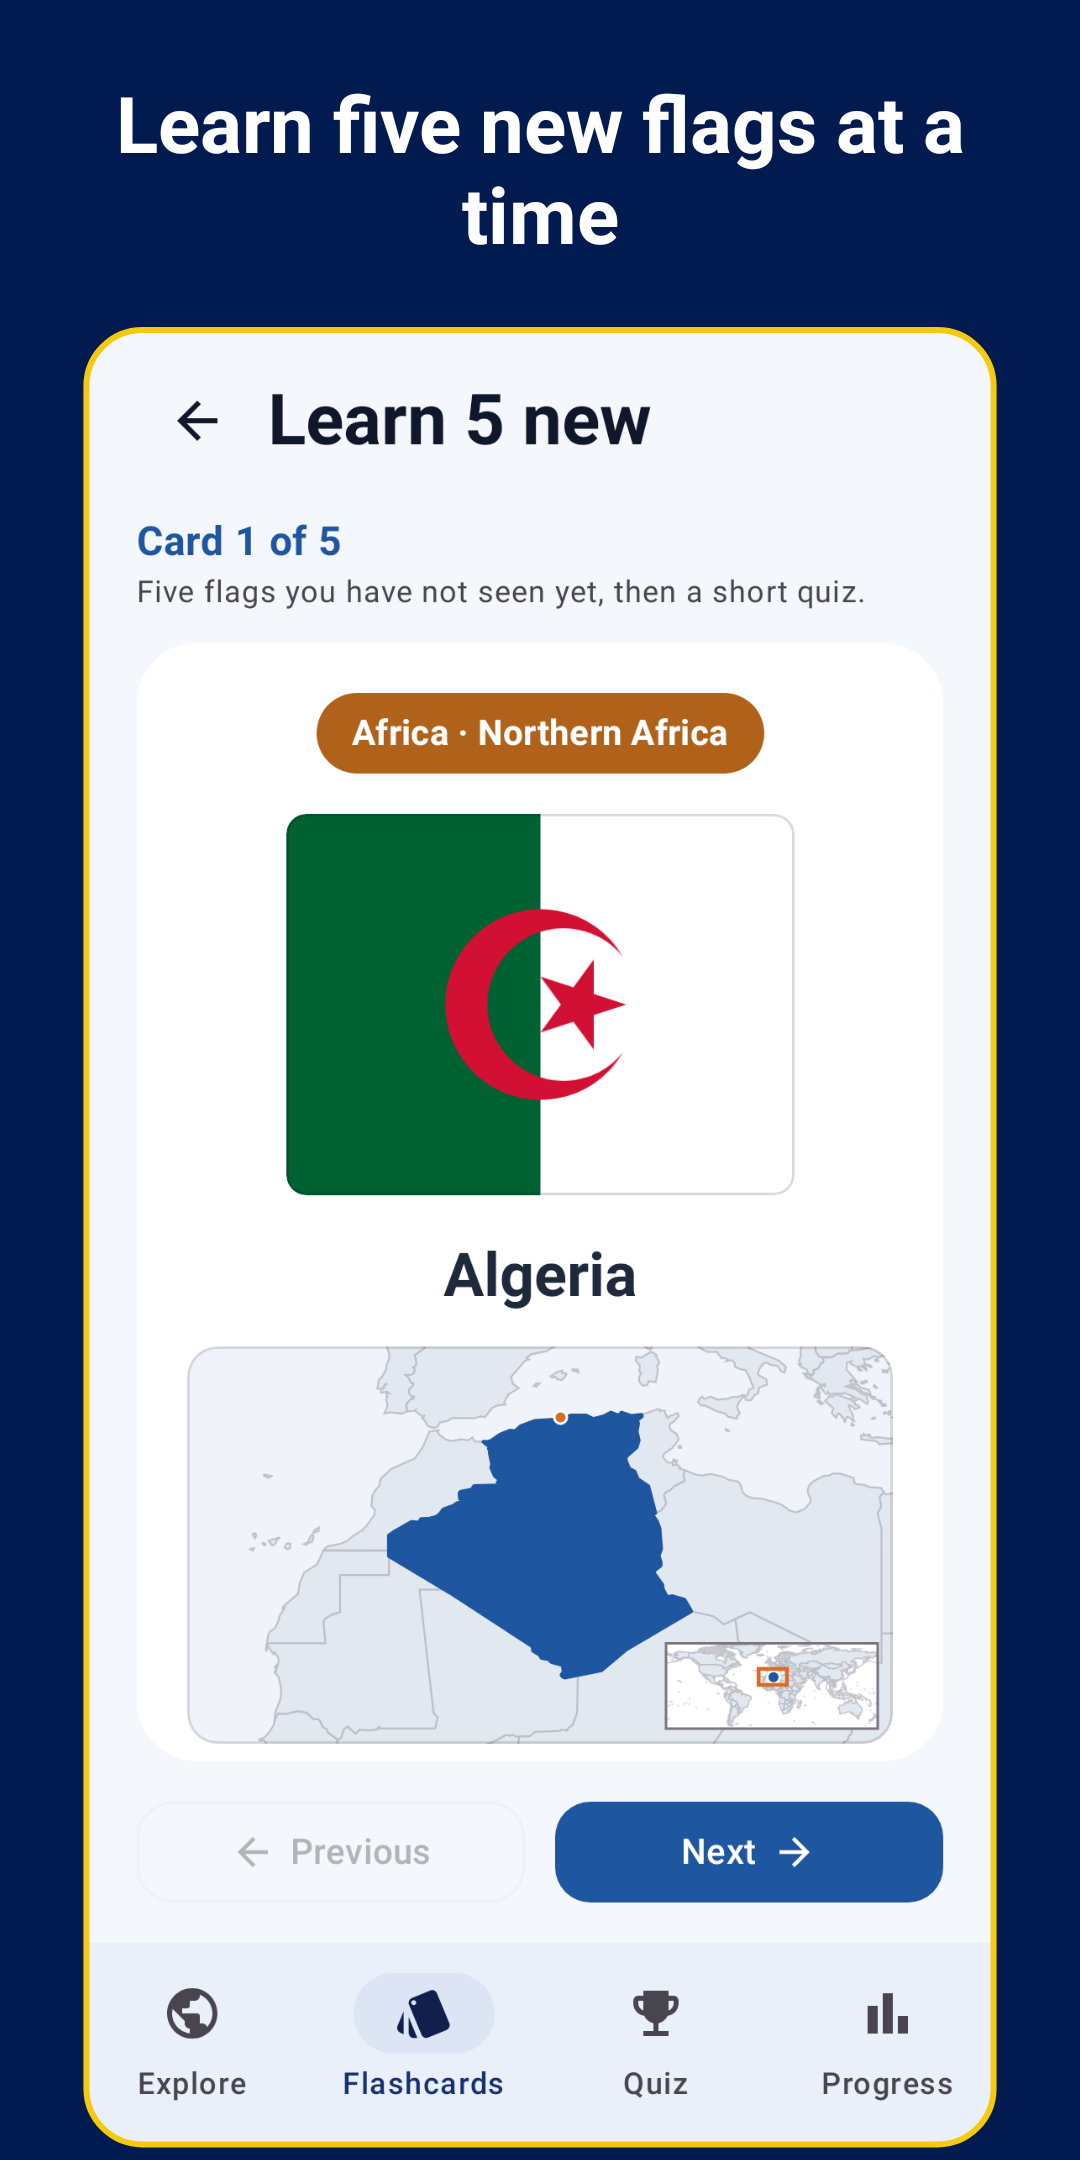
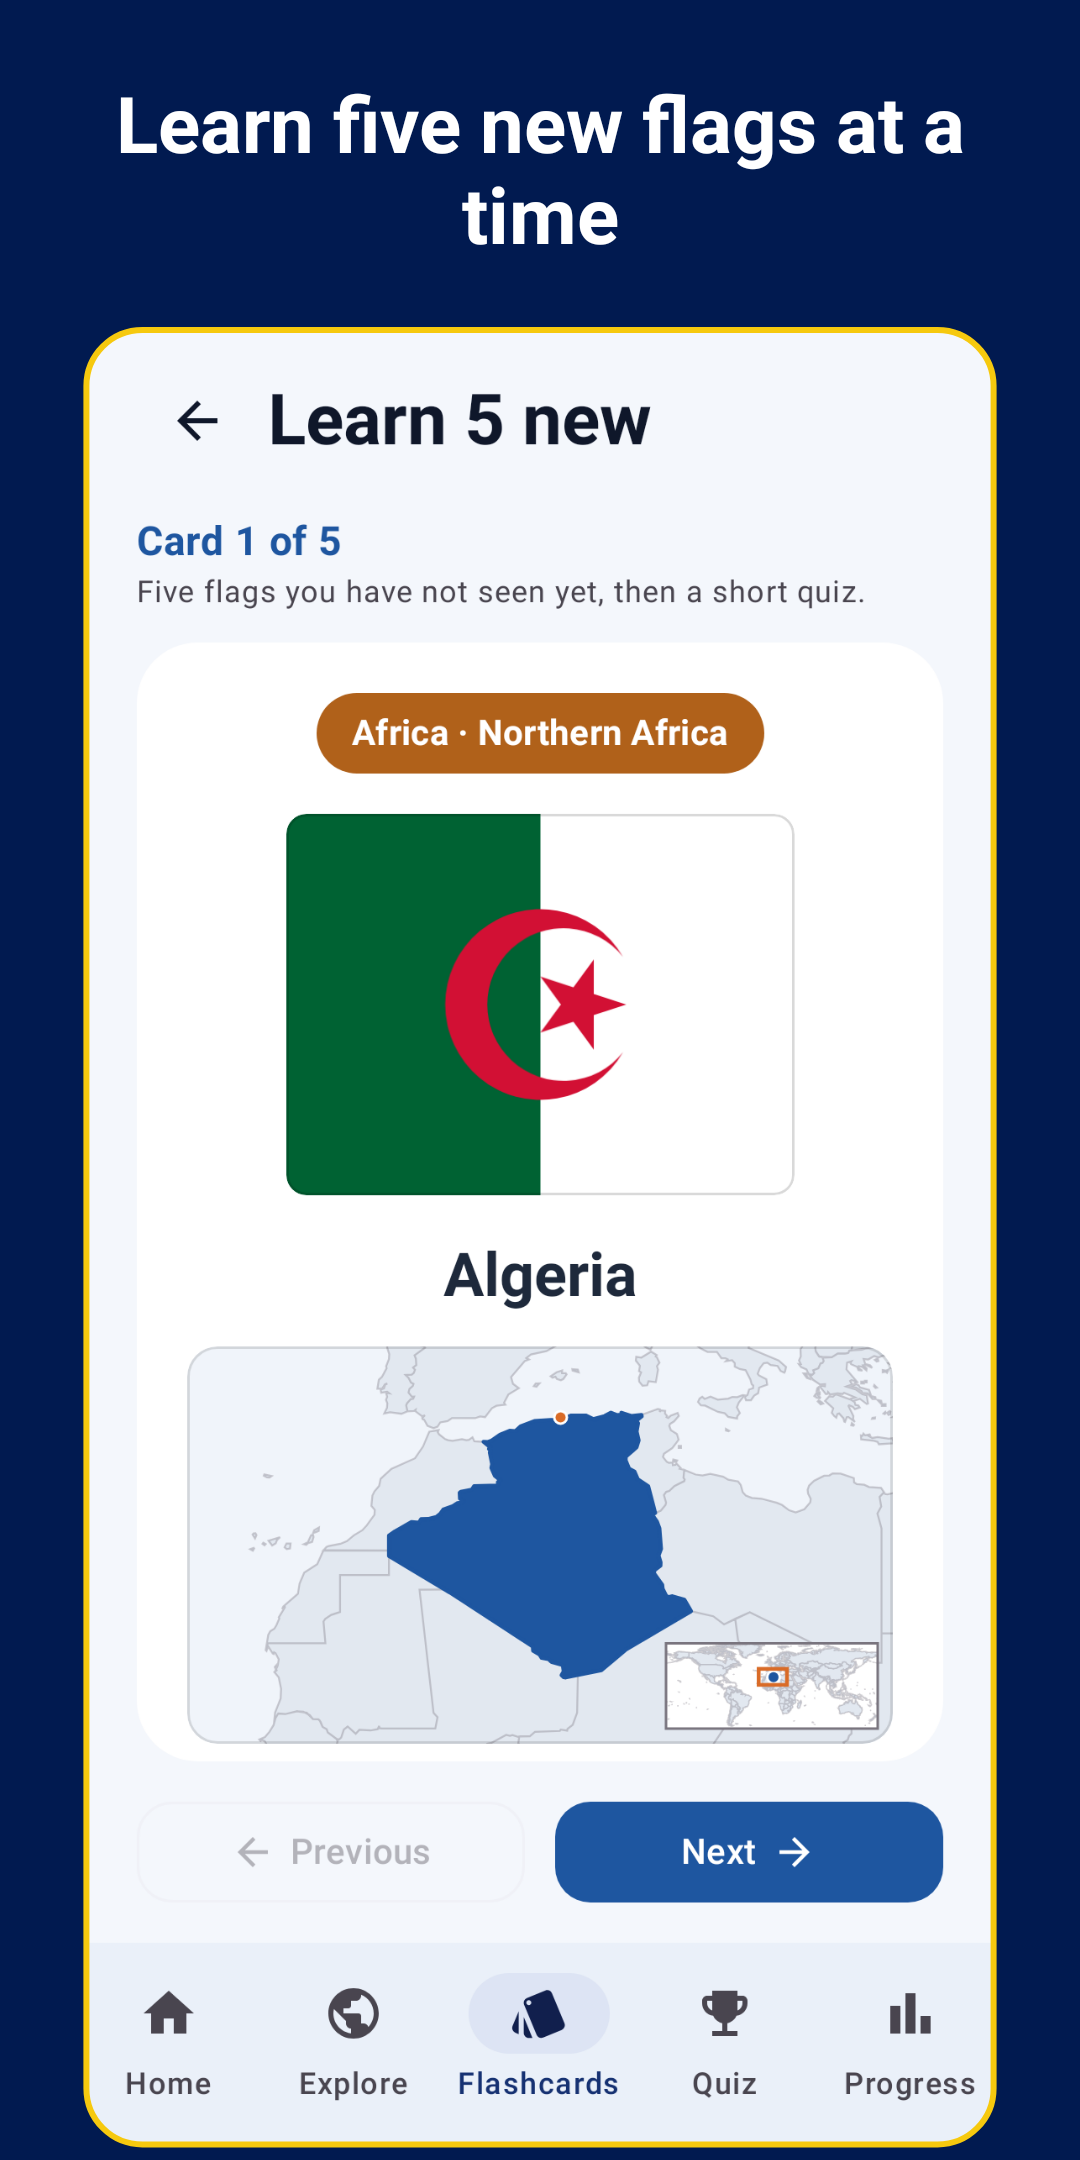
Retake the store screenshots on the new Home screen; tablet shot shows Home
Claude-Session: https://claude.ai/code/session_01FsSjTKJ7VsyPwGGheMQEqx

Changed region(s): [[0.275, 0.8995, 0.7028, 0.9926], [0.7639, 0.8995, 0.8861, 0.9926], [0.1222, 0.8995, 0.2139, 0.9926]]

diff --git a/app/src/test/java/com/example/ScreenshotsTest.kt b/app/src/test/java/com/example/ScreenshotsTest.kt
@@ -219,14 +219,18 @@ class ScreenshotsTest {
         rule.waitForIdle()
     }
 
-    /** Two of the screenshots on a 1600x2560 tablet: the rail on the start edge, the columns at their reading width. */
+    /** Two of the screenshots on a 1600x2560 tablet, Home with progress on it and Progress: the rail on the start edge, the
+     * columns at their reading width. */
     @Test
     @Config(qualifiers = "w800dp-h1280dp-xhdpi")
     fun storeTablet() {
         rule.waitForIdle()
-        saveStore("tablet_01_explore", "Every flag, capital and map to explore")
         val viewModel = ViewModelProvider(rule.activity)[CountryViewModel::class.java]
         seedProgress(viewModel)
+        rule.openTab("home")
+        rule.awaitDelivered { viewModel.streak.value.current == 3 }
+        rule.waitForIdle()
+        saveStore("tablet_01_home", "Play, learn and keep your streak")
         saveProgress("tablet_06_progress", "Spaced reviews, your streak, your progress", viewModel)
     }
 

diff --git a/store/listing.md b/store/listing.md
@@ -42,6 +42,6 @@ Works offline, in light and dark, with TalkBack, on phones and tablets.
 
 **Data safety:** No data collected. No data shared. Data is encrypted in transit: not applicable (no network). Users can request data deletion: data is deleted on uninstall or with Reset progress.
 
-**Screenshots:** `store/screenshots/`: phone 1080×2160, each with a caption on navy above the screen, the quiz first: `01_quiz_flag`, `02_quiz_locate`, `03_quiz_answered`, `04_learn_card`, `05_flashcard_back`, `06_progress`, `07_sheet_map`, and `dark_01_quiz_flag` in dark, eight in all, the most Play takes for one kind of device; tablet 1600×2560 (`tablet_01_explore`, `tablet_06_progress`). All are 24-bit PNGs, with no alpha channel. The `storePhone()`, `storePhoneDark()` and `storeTablet()` tests of `ScreenshotsTest` write them to `app/build/screenshots/store/`; that folder is copied into `store/screenshots/` after the tests have run. The listing text does not name the screen the app opens on, so a new launch screen needs no text change; retake the screenshots after one lands.
+**Screenshots:** `store/screenshots/`: phone 1080×2160, each with a caption on navy above the screen, the quiz first: `01_quiz_flag`, `02_quiz_locate`, `03_quiz_answered`, `04_learn_card`, `05_flashcard_back`, `06_progress`, `07_sheet_map`, and `dark_01_quiz_flag` in dark, eight in all, the most Play takes for one kind of device; tablet 1600×2560 (`tablet_01_home`, `tablet_06_progress`). All are 24-bit PNGs, with no alpha channel. The `storePhone()`, `storePhoneDark()` and `storeTablet()` tests of `ScreenshotsTest` write them to `app/build/screenshots/store/`; that folder is copied into `store/screenshots/` after the tests have run.
 
 **Feature graphic and icon:** `store/feature-graphic.png` (1024×500, 24-bit PNG) and `store/icon-512.png` (512×512, 32-bit PNG), drawn from the icon's master art (`assets/app-icon-master.webp`, the origami map pin on navy, and the pin cut from it) by the `storeFeatureGraphic()` and `storeIcon()` tests of `StoreGraphicsTest`, which write them to `app/build/screenshots/store-graphics/`; the two files are copied into `store/`. `python3 tools/store-check.py --check` checks the screenshots, the graphic, the icon and the lengths of the texts above against Play's rules (CI runs it).
